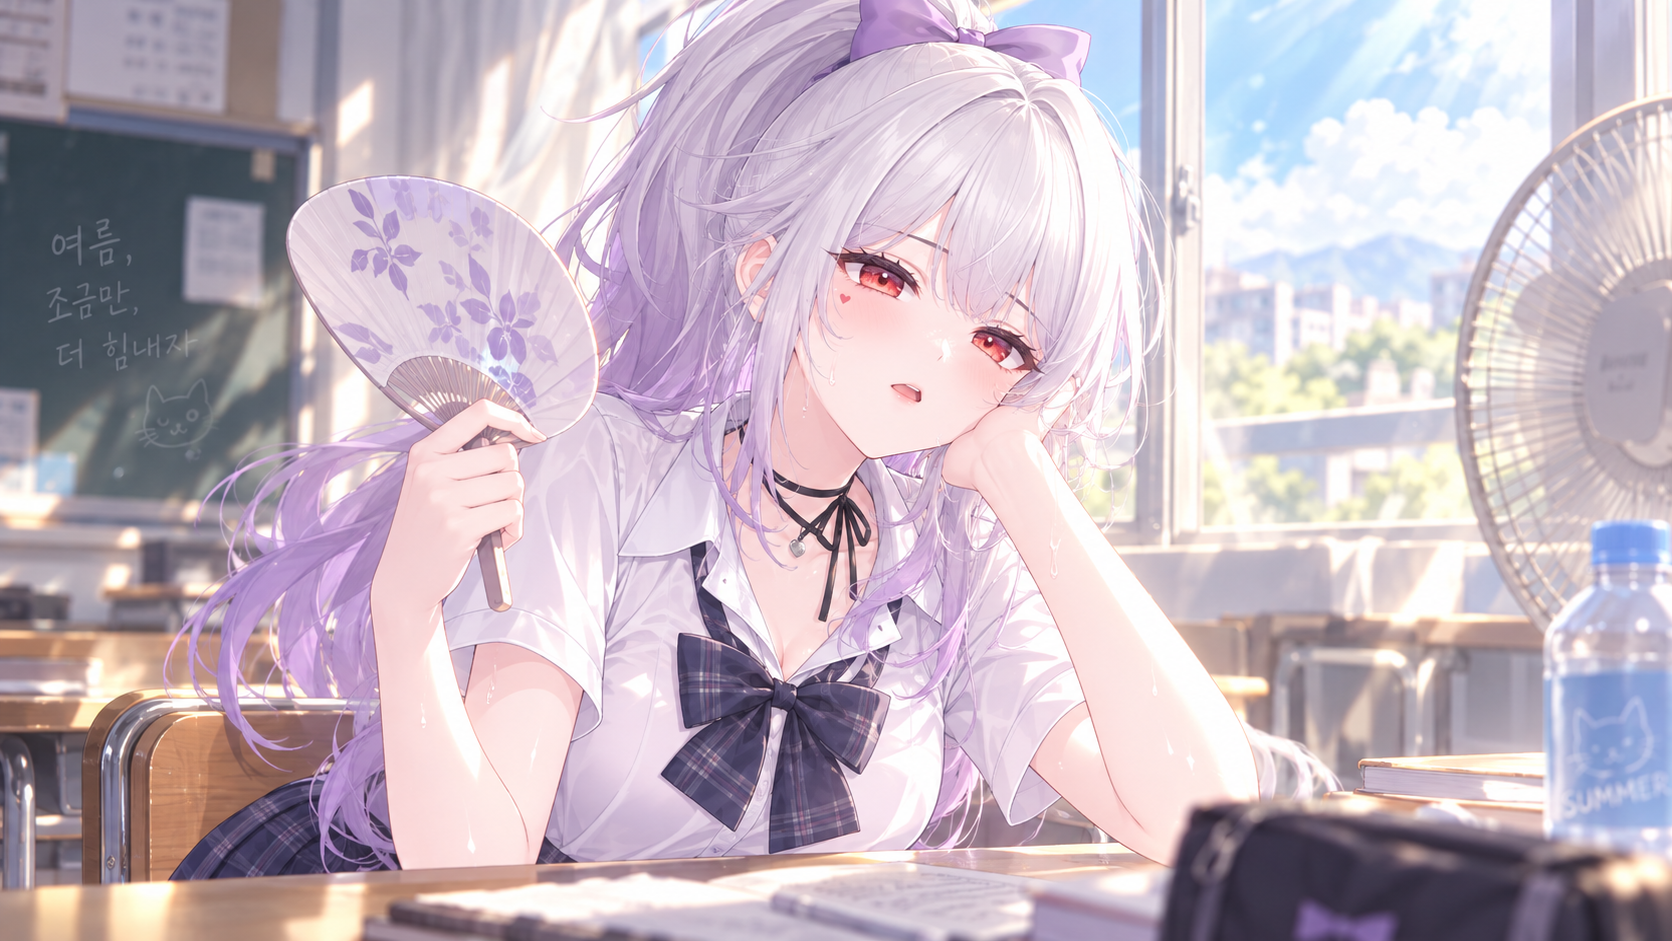
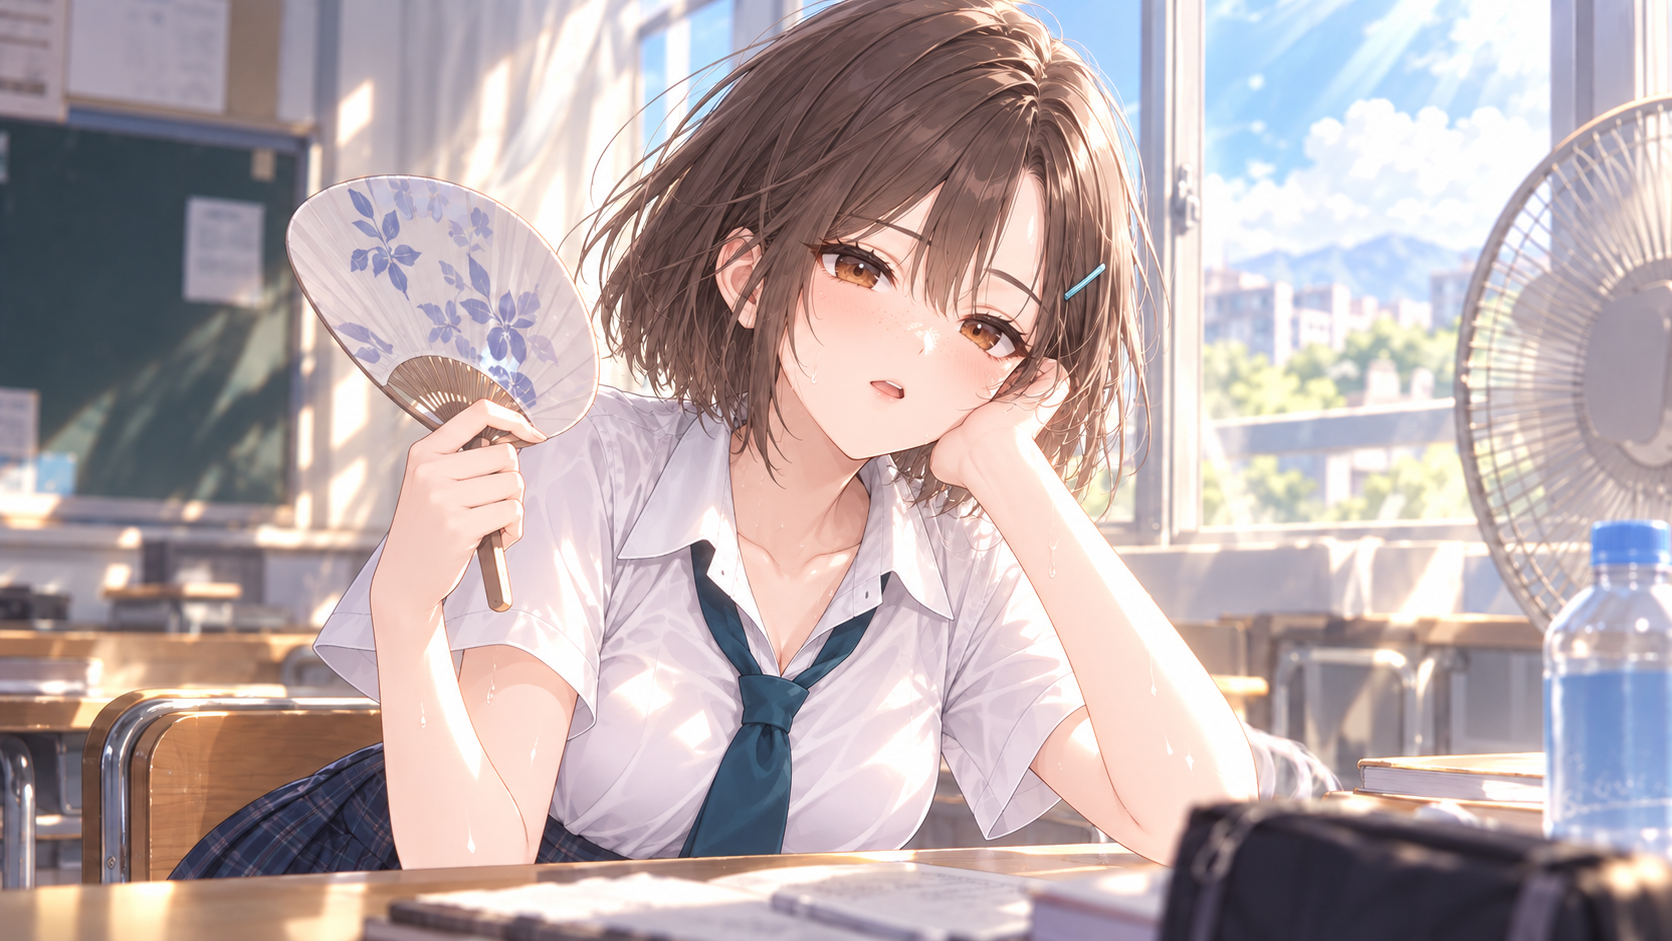
CH11 방학 계획 CG 원본 구도 반영

diff --git a/docs/illustration-replacement-prompts.md b/docs/illustration-replacement-prompts.md
@@ -242,7 +242,7 @@ CG는 공통 CG 블록과 파일별 장면 프롬프트를 이어 붙인다. 무
 | [cg-09.png](../assets/cg/cg-09.png) · 1학년→2학년 전환 | 원본의 구도와 자세를 유지한다. 온이유를 화면 왼쪽 전경에 허벅지 중간까지 보이게 두고, 몸은 학교 안쪽 중앙 소실점을 향해 걸어간다. 양쪽 어깨에 가방을 멘 채 한쪽 다리를 내딛고, 고개만 오른쪽 어깨 너머로 돌려 오른쪽을 향한 옆얼굴로 바라본다. 양옆의 높은 교문 기둥과 화면 위쪽을 덮은 벚꽃 가지, 중앙의 학교 건물·등교하는 학생들, 아래쪽으로 이어지는 길의 원근 배치를 그대로 살린다. 새 캐릭터 기준 외형과 교복을 적용하고 표지판과 학교 건물에는 읽을 수 있는 글자·로고를 넣지 않는다. |
 | [cg-10.png](../assets/cg/cg-10.png) · CH09 새로운 반 | 원본의 구도와 자세를 유지한다. 허리 위 근접 구도로 온이유를 화면 중앙 왼쪽에 두고, 몸과 어깨는 오른쪽 길을 향해 비스듬히 돌린다. 걸음을 이어가며 얼굴만 왼쪽 전경의 동행자를 돌아보고, 가방끈이 어깨에 걸린 모습과 조심스러운 미소를 살린다. 동행자는 얼굴이 보이지 않는 흐린 어깨 실루엣으로 화면 맨 왼쪽에 둔다. 오른쪽 절반에는 노을이 낮게 비치는 길과 난간·도시 불빛을 두고, 단풍 가지가 화면 위쪽을 감싼다. 새 캐릭터 기준 외형과 교복을 적용하고 글자·로고는 넣지 않는다. |
 | [cg-11.png](../assets/cg/cg-11.png) · CH10 동아리 활동 | 원본의 구도와 자세를 유지한다. 화면 중앙 왼쪽 나무 의자에 앉은 온이유가 몸을 오른쪽으로 돌리고, 고개와 시선은 캔버스에 둔다. 오른팔을 화면 중앙을 가로질러 뻗어 오른쪽 전경의 큰 캔버스에 붓을 대며, 다른 손의 팔레트는 무릎 가까운 아래쪽 중앙 오른편에 둔다. 왼쪽 아래 전경에는 흐릿한 물감병과 붓을 두고, 뒤에는 이젤과 작업대·밤 창문을 배치하며 위쪽 따뜻한 펜던트 조명을 유지한다. 새 캐릭터 외형과 교복 위의 물감 묻은 앞치마를 적용하고, 칠판·그림·소품에는 읽을 수 있는 글자·로고를 넣지 않는다. |
-| [cg-12.png](../assets/cg/cg-12.png) · CH11 방학 계획 | 더운 여름날 교실 또는 미술실, 온이유가 책상에 앉아 접이식 부채로 더위를 식히며 물병과 스케치북을 곁에 둔다. 열린 창으로 들어오는 여름빛과 느긋한 방학 전 분위기. |
+| [cg-12.png](../assets/cg/cg-12.png) · CH11 방학 계획 | 원본의 구도와 자세를 유지한다. 책상 뒤 중앙에 앉은 온이유가 오른쪽 팔꿈치를 책상에 대고 손으로 뺨을 받치며, 왼손으로 화면 왼쪽 어깨 옆에 펼친 접이식 부채를 든다. 책상은 화면 아래 전체를 가로지르고 중앙 아래에 스케치북, 오른쪽 아래에 책 더미와 잘린 전경 필통을 둔다. 맨 오른쪽 가장자리에는 크게 잘린 탁상용 선풍기와 물병을 배치한다. 왼쪽 배경에는 칠판, 뒤에는 책상과 의자, 오른쪽 위에는 열린 창과 여름 하늘을 둔다. 새 캐릭터 외형과 교복을 적용하고 칠판·종이·물병에 읽을 수 있는 글자·로고를 넣지 않는다. |
 | [cg-13-1.png](../assets/cg/cg-13-1.png) · CH12 우연한 만남, 기본 의상 | 동네 서점의 게임 잡지·캐릭터 굿즈 매대 앞, 흰 티셔츠와 데님 하의를 입은 온이유가 진열물을 살펴보다 플레이어를 발견하고 반갑게 돌아본다. 잡지 표지와 진열물은 읽을 수 없는 가상 그래픽으로 처리한다. |
 | [cg-13-2.png](../assets/cg/cg-13-2.png) · CH12 우연한 만남, 꾸민 의상 | 같은 서점의 게임 잡지 매대에서 검정 데님 재킷과 검정 바지 차림의 온이유가 잡지를 들고 반갑게 인사한다. 기본 의상 변형과 같은 서사 순간이지만 화면 배치와 손동작은 새로 구성한다. |
 | [cg-14-1.png](../assets/cg/cg-14-1.png) · CH13 첫 데이트, 기본 의상 | 첫 데이트의 해질녘 거리, 편안한 캐주얼 옷차림의 온이유가 따뜻한 가로등 아래 잠깐 걸음을 멈추고 상대를 바라본다. 설렘과 긴장이 섞인 작은 미소, 배경에는 부드러운 보케 조명. |
@@ -277,4 +277,4 @@ CG는 공통 CG 블록과 파일별 장면 프롬프트를 이어 붙인다. 무
 - 이미지 모델이 만든 문자·로고·워터마크는 제거하고, 필요한 문구는 별도로 편집한다.
 - 인물 외형 참조에는 승인된 공통 캐릭터 기준 이미지만 사용한다. 사용자가 특정 의상 참고 이미지를 제공한 경우에는 지정된 의상 형태만 참고하고 얼굴·머리·포즈·배경은 복사하지 않는다. 결과가 새 공통 캐릭터 기준과 다르면 해당 파일을 다시 생성한다.
 
-이 문서는 교체 대상의 프롬프트와 파일 대응표다. S·W·G·A·C1·P1·C13·P13·C16·P16·C24·P24·GR 스탠딩 세트와 타이틀 표지, cg-01~cg-11의 생성 및 파일 교체를 완료했으며, 나머지 CG는 한 장씩 진행한다.
+이 문서는 교체 대상의 프롬프트와 파일 대응표다. S·W·G·A·C1·P1·C13·P13·C16·P16·C24·P24·GR 스탠딩 세트와 타이틀 표지, cg-01~cg-12의 생성 및 파일 교체를 완료했으며, 나머지 CG는 한 장씩 진행한다.
